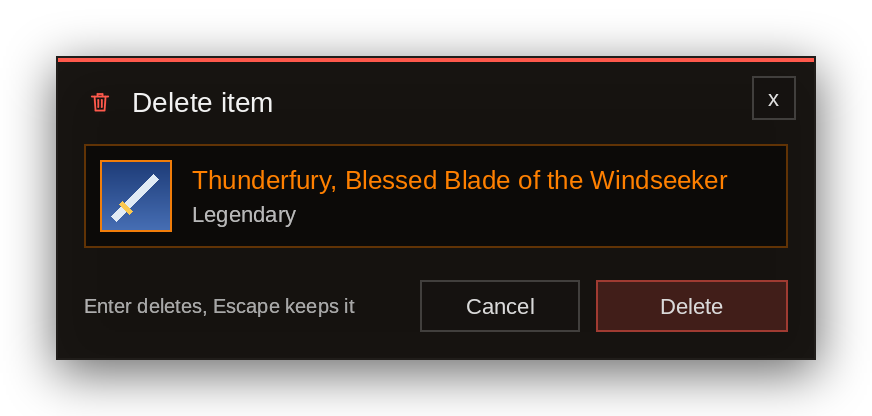
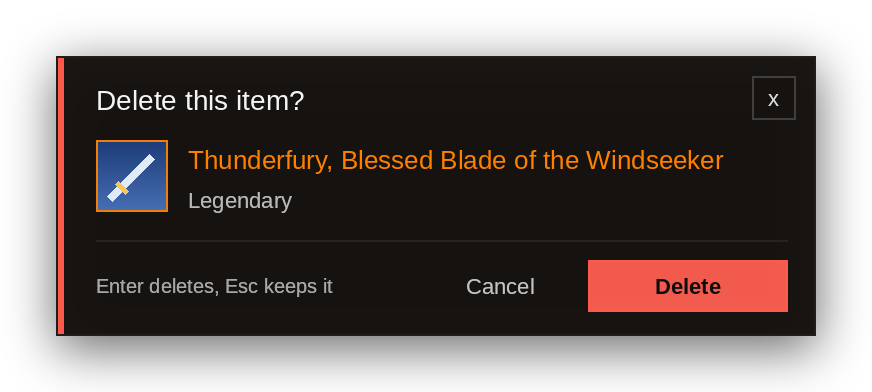
Use the Bold design for the delete dialog
The dialog now has an accent bar down the left side, "Delete this
item?" as its title, the item without a box around it, a thin rule, and
a plain Cancel next to a solid red Delete. The theme gets a 'solid'
button style (accent fill, dark text, like Crescendo's selected tabs).
The trash glyph texture is no longer used and is removed.

Claude-Session: https://claude.ai/code/session_01EnrKggJnP4FXeUQJSEN12q

diff --git a/tools/gen_icons.py b/tools/gen_icons.py
@@ -1,7 +1,6 @@
 """Draws the addon's textures in EasyDelete/Media/ and the README icon, in the line style of Crescendo's logo.
 
 - Icon.tga: the AddOns list icon, a red trash can in a ring, 64x64
-- trash.tga: a white trash can for the dialog's title, 32x32. The game tints it with SetVertexColor
 - .github/icon.png: the README icon, 256x256
 
 Run: python3 tools/gen_icons.py"""
@@ -50,22 +49,6 @@ def icon(size):
     return image.resize((size, size), Image.LANCZOS)
 
 
-def glyph(size):
-    """The white trash can on its own, filling the texture like Crescendo's rail icons"""
-    scale = 8
-    big = size * scale
-    image = Image.new('RGBA', (big, big), (255, 255, 255, 0))
-    draw = ImageDraw.Draw(image)
-    unit = big / 32
-
-    def p(x, y):
-        return ((x + 4) * unit, (y + 4) * unit)
-
-    trash(draw, p, round(1.9 * unit), 'white')
-    return image.resize((size, size), Image.LANCZOS)
-
-
 icon(64).save(os.path.join(media, 'Icon.tga'))
-glyph(32).save(os.path.join(media, 'trash.tga'))
 icon(256).save(os.path.join(root, '.github', 'icon.png'))
 print('icons written to', os.path.abspath(media))
